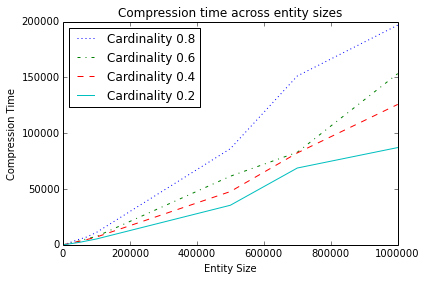
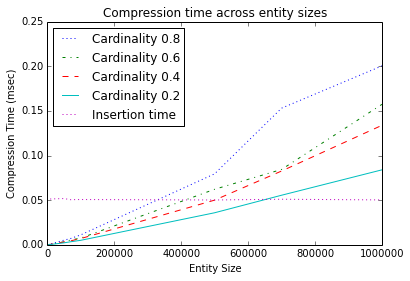
Updated the compression test graph

diff --git a/code/c/compression_test.cpp b/code/c/compression_test.cpp
@@ -20,6 +20,10 @@
   * (1) compress, decompress
   * (2) insert, remove  (on both compressed and decompressed data)
   *
+  *
+  *
+  * Usage: make compression_test
+  *       ./compression_test | tee compression_test.csv
   */
 
 
@@ -33,10 +37,10 @@ int main (int argc, char** argv) {
   std::vector<unsigned int> entity_sizes = {10, 100, 5000, 7000, 10000, 50000, 70000, 100000, 500000, 700000, 1000000};
   std::vector<float> cardinality_percentage = {0.2, 0.4, 0.6, 0.8};
 
-  unsigned int insertions = 1000;
+  unsigned int insertions = 100000;
 
   clock_t tic, toc;
-  std::cout << "Entity Size,Cardinality,Insertion time(1000),"
+  std::cout << "Entity Size,Cardinality,Insertion time("<< insertions << "),"
             << "Compression Time,Size Uncompressed (bytes),Size Compressed (bytes)\n";
 
   for (auto &es: entity_sizes) {
